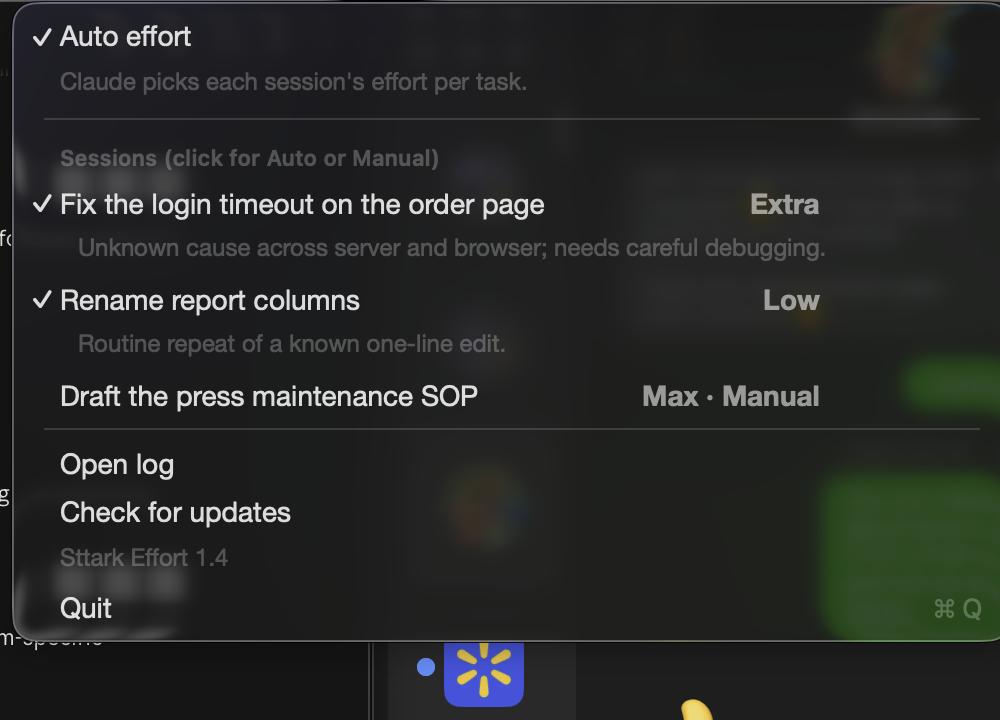
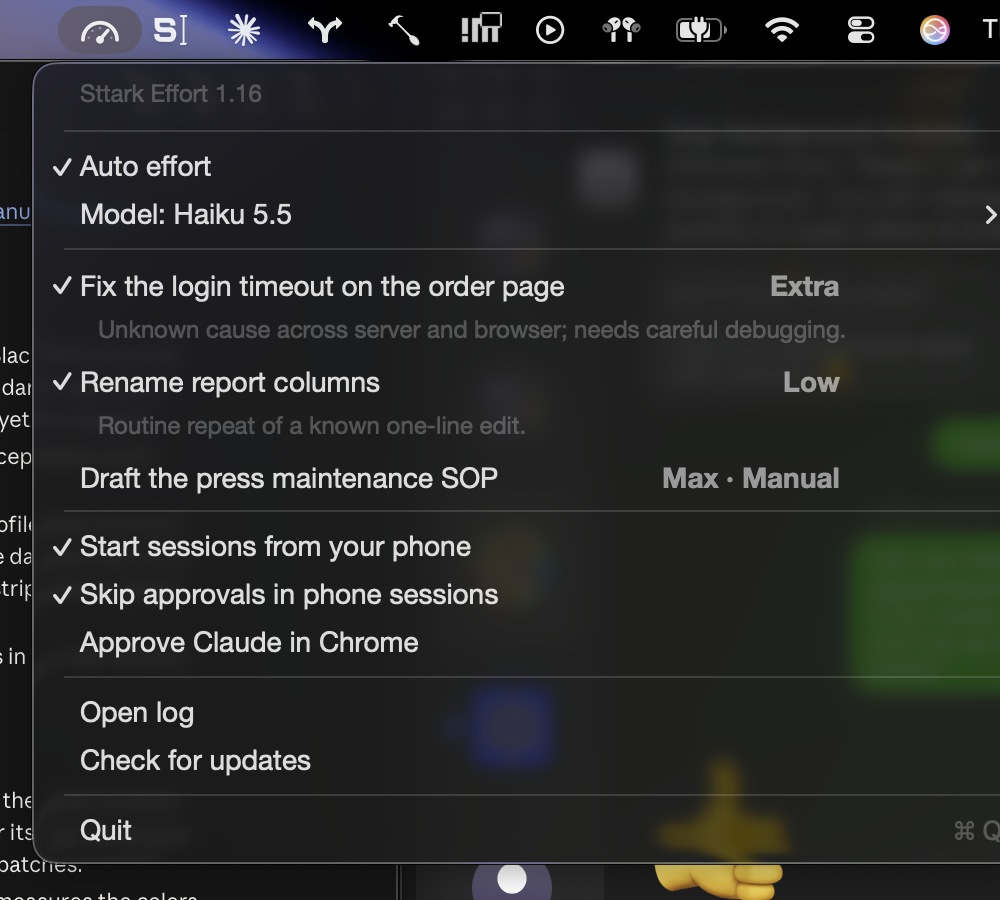
Quieter menu: explanations move to hover tips; model test results, chart and scripts in the README
Claude-Session: https://claude.ai/code/session_01DmRNH4SGt9PtvffKmt4WyV

diff --git a/Sources/Menu.swift b/Sources/Menu.swift
@@ -63,9 +63,8 @@ final class Controller: NSObject, NSMenuDelegate {
 
         let auto = action("Auto effort", #selector(togglePaused))
         auto.state = paused ? .off : .on
+        auto.toolTip = paused ? "Off: every session keeps the level it has." : "On: Claude picks each session's effort for each task."
         menu.addItem(auto)
-        menu.addItem(caption(paused ? "Off: every session keeps the level it has."
-                                    : "Claude picks each session's effort per task."))
         let models = State.models
         if !models.isEmpty {
             let current = State.model ?? models.first(where: { $0.id.contains("haiku") })?.id ?? models[0].id
@@ -74,7 +73,6 @@ final class Controller: NSObject, NSMenuDelegate {
             pick.attributedTitle = NSAttributedString(string: "Model: \(name)", attributes: [.font: font(14)])
             let sub = NSMenu()
             sub.autoenablesItems = false
-            sub.addItem(caption("Picks the effort level. Newest Haiku and Sonnet models."))
             for m in models {
                 let i = action(m.label + (m.id.contains("haiku") ? "  (faster, cheaper)" : "  (slower, smarter)"), #selector(pickModel(_:)))
                 i.representedObject = m.id
@@ -82,13 +80,14 @@ final class Controller: NSObject, NSMenuDelegate {
                 sub.addItem(i)
             }
             pick.submenu = sub
+            pick.toolTip = "The model that picks the effort level. The newest Haiku and Sonnet models."
             menu.addItem(pick)
         }
         if !Setup.claudeFound { menu.addItem(caption("Claude Code isn't installed at ~/.local/bin/claude.")) }
 
         menu.addItem(.separator())
         let sessions = State.sessions()
-        menu.addItem(header(sessions.isEmpty ? "No sessions in the last 12 hours" : "Sessions (click for Auto or Manual)"))
+        if sessions.isEmpty { menu.addItem(caption("No sessions in the last 12 hours")) }
         for s in sessions.prefix(12) {
             let i = action("", #selector(toggleManual(_:)))
             i.attributedTitle = row(s, dim: paused)
@@ -101,24 +100,24 @@ final class Controller: NSObject, NSMenuDelegate {
         }
 
         menu.addItem(.separator())
+        let phone = action("Start sessions from your phone", #selector(togglePhone))
         if Server.otherRunning {
-            menu.addItem(caption("Phone sessions: a Remote Control server already runs on this Mac."))
+            phone.state = .on
+            phone.toolTip = "A Remote Control server set up outside Sttark Effort already runs on this Mac."
         } else {
-            let phone = action("Start sessions from your phone", #selector(togglePhone))
             phone.state = Server.installed ? .on : .off
-            menu.addItem(phone)
-            if Server.installed, let f = Server.folder {
-                menu.addItem(caption("Sessions start in " + f.replacingOccurrences(of: FileManager.default.homeDirectoryForCurrentUser.path, with: "~")))
-            }
+            phone.toolTip = Server.folder.map { "Sessions start in " + $0.replacingOccurrences(of: FileManager.default.homeDirectoryForCurrentUser.path, with: "~") }
+                ?? "Start Claude Code sessions on this Mac from the Claude app on your phone or any computer."
         }
+        menu.addItem(phone)
         let skip = action("Skip approvals in phone sessions", #selector(toggleBypass))
         skip.state = Bypass.on ? .on : .off
+        skip.toolTip = "Sessions from a server started without approvals stay that way, instead of the Claude app switching them back to asking."
         menu.addItem(skip)
-        menu.addItem(caption("Sessions from a server started without approvals stay that way."))
         let chrome = action("Approve Claude in Chrome", #selector(toggleChrome))
         chrome.state = ChromeApprover.on ? .on : .off
+        chrome.toolTip = "Clicks Allow when Claude for Chrome asks to use a site."
         menu.addItem(chrome)
-        menu.addItem(caption("Clicks Allow when Claude for Chrome asks to use a site."))
         if ChromeApprover.needsAccessibility {
             menu.addItem(action("Needs Accessibility permission…", #selector(openAccessibility)))
         }
@@ -191,6 +190,14 @@ final class Controller: NSObject, NSMenuDelegate {
     @objc func openAccessibility() { ChromeApprover.openAccessibility() }
 
     @objc func togglePhone() {
+        if Server.otherRunning {
+            let a = NSAlert()
+            a.messageText = "Already set up"
+            a.informativeText = "A Remote Control server set up outside Sttark Effort already runs on this Mac, so it's left as it is."
+            NSApp.activate(ignoringOtherApps: true)
+            a.runModal()
+            return
+        }
         if Server.installed { Server.stop() } else { Server.setUp() }
     }
 

diff --git a/tools/model-test/run.py b/tools/model-test/run.py
@@ -1,0 +1,52 @@
+"""Step 2: an answer key from Opus at max effort, which reads each whole turn in hindsight and names the level the
+work truly needed; then each candidate model judges the same prompts the way the hook does, with only what it
+sees at prompt time. Edit the model list below for new models. Reads cases.json, writes results.json.
+Uses your Claude Code login; 100 Opus calls plus 100 per model."""
+import importlib.util, os, json, re, subprocess, sys, time
+from concurrent.futures import ThreadPoolExecutor
+spec = importlib.util.spec_from_file_location('h', os.path.join(os.path.dirname(os.path.abspath(__file__)), '..', '..', 'Resources', 'hooks', 'effort-hook.py'))
+h = importlib.util.module_from_spec(spec); spec.loader.exec_module(h)
+cases = json.load(open('cases.json'))
+KEY = """You grade effort levels for a Claude Code agent, in hindsight. You see a user's request, the conversation \
+before it, and the full record of how the agent's work on it actually went. Decide the effort level that work truly \
+needed to be done right the first time, no more. Higher effort means more thinking and care, at more time and cost.
+
+low: quick answers, lookups, confirmations, small talk, trivial edits.
+medium: routine work with a clear path.
+high: multi-step work needing judgment: code across a few files, debugging with a findable cause, careful writing.
+xhigh: hard or open-ended work: unknown causes, building something end to end, many systems, costly mistakes.
+max: the hardest work, where a wrong answer is costly and hard to undo, or the problem resisted earlier attempts.
+
+Judge by what the work really demanded, not by how long the agent took (it may have been slow or wasteful). \
+Answer on one line: the level, then " - " and a reason of under 15 words."""
+def run(model, effort, system, ask, timeout):
+    env = {k: v for k, v in os.environ.items() if not k.startswith(('CLAUDE_CODE_', 'CLAUDECODE', 'CLAUDE_PID', 'CLAUDE_EFFORT'))}
+    env['EFFORT_JUDGE'] = '1'
+    t = time.time()
+    try:
+        r = subprocess.run([h.CLAUDE, '-p', '--model', model, '--effort', effort, '--no-session-persistence', '--strict-mcp-config',
+                            '--tools', '', '--settings', '{"disableAllHooks":true}', '--system-prompt', system, ask],
+                           capture_output=True, text=True, timeout=timeout, env=env, cwd='/tmp')
+        a = r.stdout.strip().splitlines()[0] if r.stdout.strip() else ''
+    except Exception as e:
+        a = 'ERR ' + repr(e)
+    m = re.match(r'\W*(low|medium|high|xhigh|max)\b', a, re.I)
+    return (m.group(1).lower() if m else None), a, round(time.time() - t, 1)
+def key(c):
+    ask = (f'Conversation before the request:\n{c["context"] or "(none)"}\n\nRequest:\n{c["prompt"]}\n\n'
+           f'How the work went ({c["calls"]} tool calls, {c["errors"]} failed, {c["minutes"]} minutes):\n{c["work"]}\n\n'
+           f'Agent\'s final reply:\n{c["final"]}\n\nEffort level the work needed?')
+    return run('claude-opus-5-5', 'max', KEY, ask, 600)
+def judge(c, model):
+    ask = (f'Recent conversation:\n{c["context"] or "(none)"}\n\nCurrent effort: unknown\n\n'
+           f'Latest user message:\n{c["prompt"]}\n\nEffort level?')
+    return run(model, 'low', h.RULES, ask, 60)
+out = {}
+with ThreadPoolExecutor(10) as ex:
+    futs = {('key', c['id']): ex.submit(key, c) for c in cases}
+    for m in ['claude-haiku-5-5', 'claude-haiku-4-5', 'claude-sonnet-5-5', 'claude-sonnet-5']:
+        for c in cases: futs[(m, c['id'])] = ex.submit(judge, c, m)
+    for k, f in futs.items():
+        out.setdefault(str(k[1]), {})[k[0]] = f.result()
+        json.dump(out, open('results.json', 'w'))
+print('done', len(out))

diff --git a/tools/model-test/score.py b/tools/model-test/score.py
@@ -1,0 +1,45 @@
+"""Step 3: score each model against the answer key and draw the chart. Reads results.json, prints a table,
+writes chart.html and chart.png (the PNG needs Google Chrome)."""
+import json, os, statistics, subprocess, time
+L = ['low', 'medium', 'high', 'xhigh', 'max']
+r = json.load(open('results.json'))
+models = sorted({k for v in r.values() for k in v} - {'key'})
+NAMES = lambda m: m.replace('claude-', '').replace('-', ' ', 1).replace('-', '.').title()
+rows = ''
+for m in models:
+    b = dict.fromkeys(['l2', 'l1', 'ok', 'h1', 'h2'], 0); n = 0; secs = []
+    for v in r.values():
+        if m not in v or not v['key'][0]: continue
+        secs.append(v[m][2]); p = v[m][0]
+        if not p: continue
+        n += 1; d = L.index(p) - L.index(v['key'][0])
+        b['l2' if d <= -2 else 'l1' if d == -1 else 'ok' if d == 0 else 'h1' if d == 1 else 'h2'] += 1
+    pct = {k: b[k] / n for k in b}
+    print(f'{NAMES(m):12} right {pct["ok"]:4.0%}  within one {1 - pct["l2"] - pct["h2"]:4.0%}  too low {pct["l1"] + pct["l2"]:4.0%} '
+          f'(2+ {pct["l2"]:3.0%})  too high {pct["h1"] + pct["h2"]:4.0%}  typical {statistics.median(secs):.1f} s')
+    seg = ''.join(f'<div class="s {k}" style="width:{pct[k] * 100:.1f}%">{round(pct[k] * 100) if pct[k] >= 0.06 else ""}</div>' for k in b)
+    rows += f'<div class="row"><div class="name">{NAMES(m)}</div><div class="bar">{seg}</div><div class="t">{statistics.median(secs):.1f} s</div></div>'
+html = f'''<html><head><style>
+body{{margin:0;padding:24px;background:#fff;font:15px "Helvetica Neue";color:#000;width:760px}}
+h1{{font-size:19px;font-weight:600;margin:0 0 4px}} p{{color:#5b6570;margin:0 0 16px;font-size:14px}}
+.row{{display:flex;align-items:center;gap:12px;margin:8px 0}} .name{{width:90px;font-weight:600}} .t{{width:60px;color:#5b6570;text-align:right}}
+.bar{{flex:1;display:flex;height:30px;border-radius:6px;overflow:hidden}}
+.s{{display:flex;align-items:center;justify-content:center;font-size:13px;font-weight:600}}
+.l2{{background:#df3d33;color:#fff}} .l1{{background:#fdecea;color:#b42318}} .ok{{background:#e6f4ea;color:#007a2a}} .h1{{background:#e8f1f8;color:#035f93}} .h2{{background:#0473b1;color:#fff}}
+.legend{{display:flex;gap:16px;margin-top:14px;font-size:13px;color:#5b6570}} .legend span::before{{content:"";display:inline-block;width:10px;height:10px;border-radius:2px;margin-right:6px;vertical-align:-1px;background:var(--c)}}
+.hd{{display:flex;gap:12px;font-size:13px;color:#5b6570}} .hd .sp{{flex:1}}
+</style></head><body>
+<h1>Which model picks effort best</h1><p>{len(r)} past prompts. Answer key: Opus at max, judging each with hindsight of how the work went. % of prompts.</p>
+<div class="hd"><div style="width:90px"></div><div class="sp"></div><div style="width:60px;text-align:right">Typical time</div></div>
+{rows}
+<div class="legend"><span style="--c:#df3d33">2+ levels too low</span><span style="--c:#fdecea">1 too low</span><span style="--c:#e6f4ea">Right</span><span style="--c:#e8f1f8">1 too high</span><span style="--c:#0473b1">2+ too high</span></div>
+</body></html>'''
+open('chart.html', 'w').write(html)
+chrome = '/Applications/Google Chrome.app/Contents/MacOS/Google Chrome'
+if os.path.exists(chrome):
+    here = os.path.abspath('.')
+    c = subprocess.Popen([chrome, '--headless=new', '--user-data-dir=' + os.path.join(here, '.chrome'), '--hide-scrollbars',
+                          '--window-size=808,%d' % (180 + 46 * len(models)), '--screenshot=' + os.path.join(here, 'chart.png'),
+                          'file://' + os.path.join(here, 'chart.html')], stdout=subprocess.DEVNULL, stderr=subprocess.DEVNULL)
+    time.sleep(5); c.kill()
+    print('wrote chart.png')

diff --git a/tools/model-test/sample.py b/tools/model-test/sample.py
@@ -1,0 +1,59 @@
+"""Step 1 of the model test: pick 100 past Claude Code turns from this Mac's session history (the last 10 days),
+20 from each size band by tool calls (0, 1-5, 6-20, 21-60, 61+). Each keeps what the hook sees at prompt time
+(the prompt and the conversation before it) and how the work actually went. Writes cases.json here.
+Run from an empty folder: python3 /path/to/tools/model-test/sample.py"""
+import importlib.util, os, json, glob, random, re, time
+spec = importlib.util.spec_from_file_location('h', os.path.join(os.path.dirname(os.path.abspath(__file__)), '..', '..', 'Resources', 'hooks', 'effort-hook.py'))
+h = importlib.util.module_from_spec(spec); spec.loader.exec_module(h)
+cut = time.time() - 10 * 86400
+files = [f for f in glob.glob(os.path.expanduser('~/.claude/projects/*/*.jsonl')) if os.path.getmtime(f) > cut]
+cases = []
+for f in files:
+    try: entries = [json.loads(l) for l in open(f)]
+    except Exception: continue
+    prompts = []
+    for i, e in enumerate(entries):
+        if e.get('type') == 'user' and not e.get('isMeta'):
+            t = h.text_of((e.get('message') or {}).get('content')).strip()
+            if t and not t.startswith('<') and len(t) > 1:
+                prompts.append((i, t))
+    for k, (i, t) in enumerate(prompts):
+        end = prompts[k + 1][0] if k + 1 < len(prompts) else len(entries)
+        turn = entries[i:end]
+        calls = errors = 0; work = []; final = ''
+        for e in turn[1:]:
+            c = (e.get('message') or {}).get('content')
+            if not isinstance(c, list): continue
+            for b in c:
+                if not isinstance(b, dict): continue
+                if b.get('type') == 'tool_use':
+                    calls += 1; work.append(f'{calls}. {b.get("name")} ' + json.dumps(b.get('input', {}), ensure_ascii=False)[:200])
+                elif b.get('type') == 'tool_result' and b.get('is_error'):
+                    errors += 1; work.append('   (that step failed)')
+                elif b.get('type') == 'text' and e.get('type') == 'assistant':
+                    final = b['text']; work.append('Agent: ' + re.sub(r'\s+', ' ', b['text'])[:300])
+        if calls == 0 and not final: continue
+        ts = [e.get('timestamp') for e in turn if e.get('timestamp')]
+        mins = 0
+        if len(ts) > 1:
+            from datetime import datetime
+            p = lambda s: datetime.fromisoformat(s.replace('Z', '+00:00'))
+            mins = (p(ts[-1]) - p(ts[0])).total_seconds() / 60
+        # prompt-time context, exactly what the hook sees: transcript up to (not including) this prompt
+        tmp = '/tmp/_ctx.jsonl'
+        with open(tmp, 'w') as o:
+            for e in entries[:i]: o.write(json.dumps(e) + '\n')
+        ctx = h.recent(tmp, t)
+        wtext = '\n'.join(work)
+        if len(wtext) > 7000: wtext = wtext[:2000] + '\n[...]\n' + wtext[-5000:]
+        cases.append({'file': os.path.basename(f), 'prompt': t[:4000], 'context': ctx, 'calls': calls, 'errors': errors,
+                      'minutes': round(mins, 1), 'work': wtext, 'final': final[:2500]})
+random.seed(7)
+buckets = [(0, 0), (1, 5), (6, 20), (21, 60), (61, 10**6)]
+out = []
+for lo, hi in buckets:
+    b = [c for c in cases if lo <= c['calls'] <= hi]
+    out += random.sample(b, min(20, len(b)))
+for n, c in enumerate(out): c['id'] = n
+json.dump(out, open('cases.json', 'w'))
+print(len(files), 'transcripts,', len(cases), 'turns; sampled', len(out), [sum(lo <= c['calls'] <= hi for c in out) for lo, hi in buckets])

diff --git a/README.md b/README.md
@@ -34,7 +34,7 @@ Click the gauge:
 |---|---|
 | **Auto effort** | On: Claude picks each session's effort. Off: every session keeps the level it has, until you turn it back on. |
 | **Model** | Which Claude model picks the levels: the two newest Haiku and two newest Sonnet models, read from Anthropic's list once a day, so new ones appear without an update. Haiku is faster and cheaper; Sonnet is slower and smarter. The newest Haiku is the default. |
-| **A session row** | The session's name in the Claude app and its level. A check means Auto. Click to switch to Manual (orange), then click again for Auto. The gray line under it is Haiku's latest reason. |
+| **A session row** | The session's name in the Claude app and its level. A check means Auto. Click to switch to Manual, then click again for Auto. The gray line under it is the latest reason for its level. Hover any item for what it does. |
 | **Open log** | Opens the full log in Console. |
 | **Start sessions from your phone** | Sets this Mac up so you can start Claude Code sessions from the Claude app. See [below](#start-claude-code-sessions-from-your-phone). |
 | **Skip approvals in phone sessions** | See [below](#skip-approvals-in-phone-sessions). Off until you turn it on. |
@@ -64,6 +64,33 @@ Every decision goes into `~/Library/Logs/claude-effort-hook.log`, one line each:
 | `error` | Something failed. The level was left as it was. |
 
 To watch it live: `tail -f ~/Library/Logs/claude-effort-hook.log`.
+
+## Choosing the model
+
+A test on October 15, 2026 found **Sonnet 5.5** picks effort best. The default is still the newest Haiku, which is faster and cheaper. Pick Sonnet 5.5 under **Model** if you'd rather spend a little more per check for fewer under-powered tasks.
+
+![Which model picks effort best: Sonnet 5.5 is too low least often](docs/model-test.png)
+
+| Model | Right level | Within one level | Too low | 2+ levels too low | Too high | Typical time |
+|---|---|---|---|---|---|---|
+| Sonnet 5.5 | 54% | 94% | 22% | 6% | 24% | 2.6 s |
+| Sonnet 5 | 57% | 92% | 35% | 8% | 8% | 2.2 s |
+| Haiku 5.5 | 52% | 89% | 29% | 8% | 19% | 1.9 s |
+| Haiku 4.5 | 37% | 82% | 55% | 16% | 8% | 10.3 s |
+
+**Why Sonnet 5.5:** a level that's too low is the costly mistake, because the work comes out wrong and has to be done again. A level that's too high only costs some extra time and usage on that task. Sonnet 5.5 is too low least often, and lands within one level 94% of the time. Sonnet 5 is right most often, but it's too low far more often. Haiku 4.5 is slow and too low over half the time.
+
+**How the test works:** it took 100 real past turns from Claude Code session history, 20 each from five sizes (no tool calls, 1 to 5, 6 to 20, 21 to 60, and more than 60). For the answer key, Opus at max effort read each whole turn, including how the work actually went (each step, which failed, how long it took), and named the level the work truly needed. Then each model judged the same 100 prompts the way the hook does, seeing only the prompt and the conversation before it. One limit: the answer key is one model's hindsight, not a measured result.
+
+**Run it again** when new models come out. From an empty folder:
+
+```sh
+python3 ~/path/to/sttark-effort/tools/model-test/sample.py   # picks 100 past turns: cases.json
+python3 ~/path/to/sttark-effort/tools/model-test/run.py      # answer key and models: results.json (edit the model list first)
+python3 ~/path/to/sttark-effort/tools/model-test/score.py    # table and chart.png
+```
+
+It reads your own session history, which stays on your Mac, and makes about 500 Claude calls with your Claude Code login.
 
 ## Start Claude Code sessions from your phone
 
@@ -138,6 +165,7 @@ Every change to the app's code on `main` (`Sources`, `Resources`, `Helpers`, `In
 | `Sources/Menu.swift` | The menu bar icon and menu. |
 | `Sources/Server.swift` | The Start sessions from your phone switch. |
 | `Sources/Switches.swift` | The Skip approvals and Approve Claude in Chrome switches. |
+| `tools/model-test/` | The model test: `sample.py`, `run.py`, `score.py`. |
 | `tools/make-icon.py` | Draws the app icon. The menu bar gauge is drawn in code to match it. |
 | `Helpers/ChromeApprover.swift` | The Chrome approver helper. `--dump` prints what it sees without clicking. |
 | `Resources/hooks/bypass-hook.sh` | The Skip approvals hook. |
